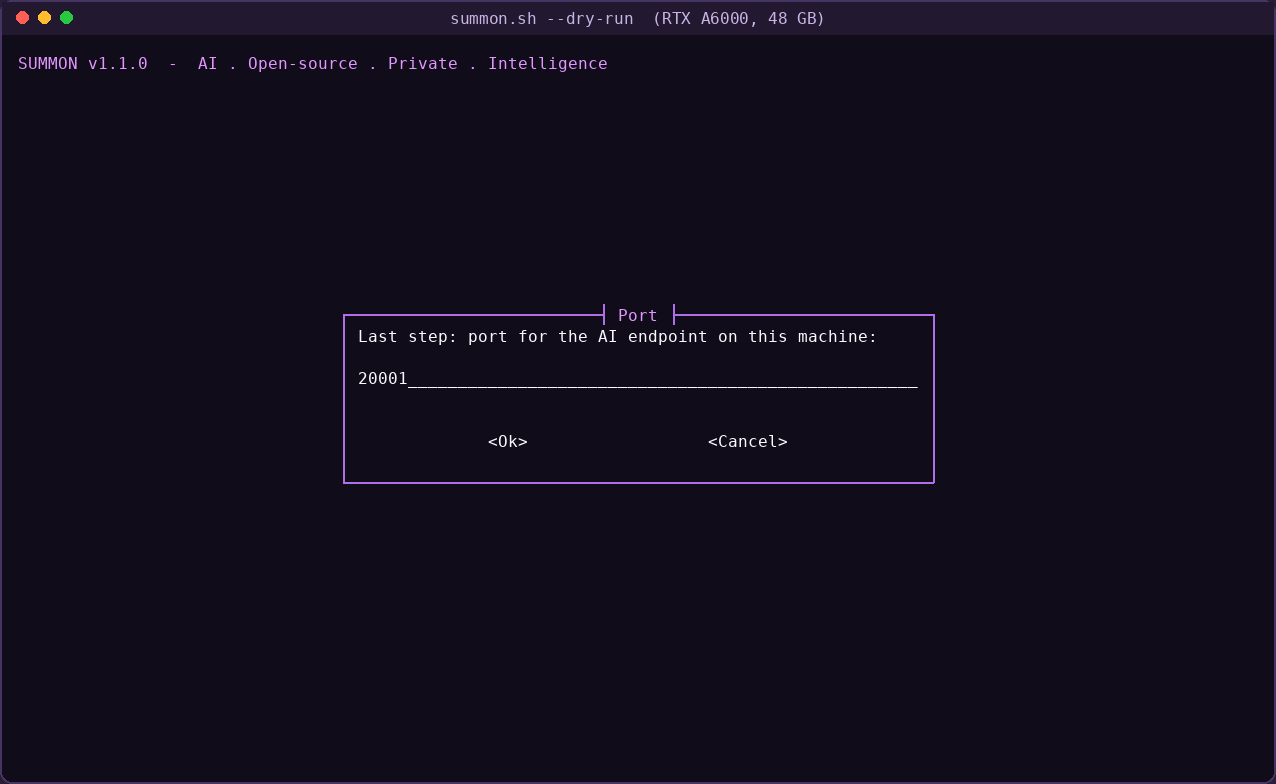
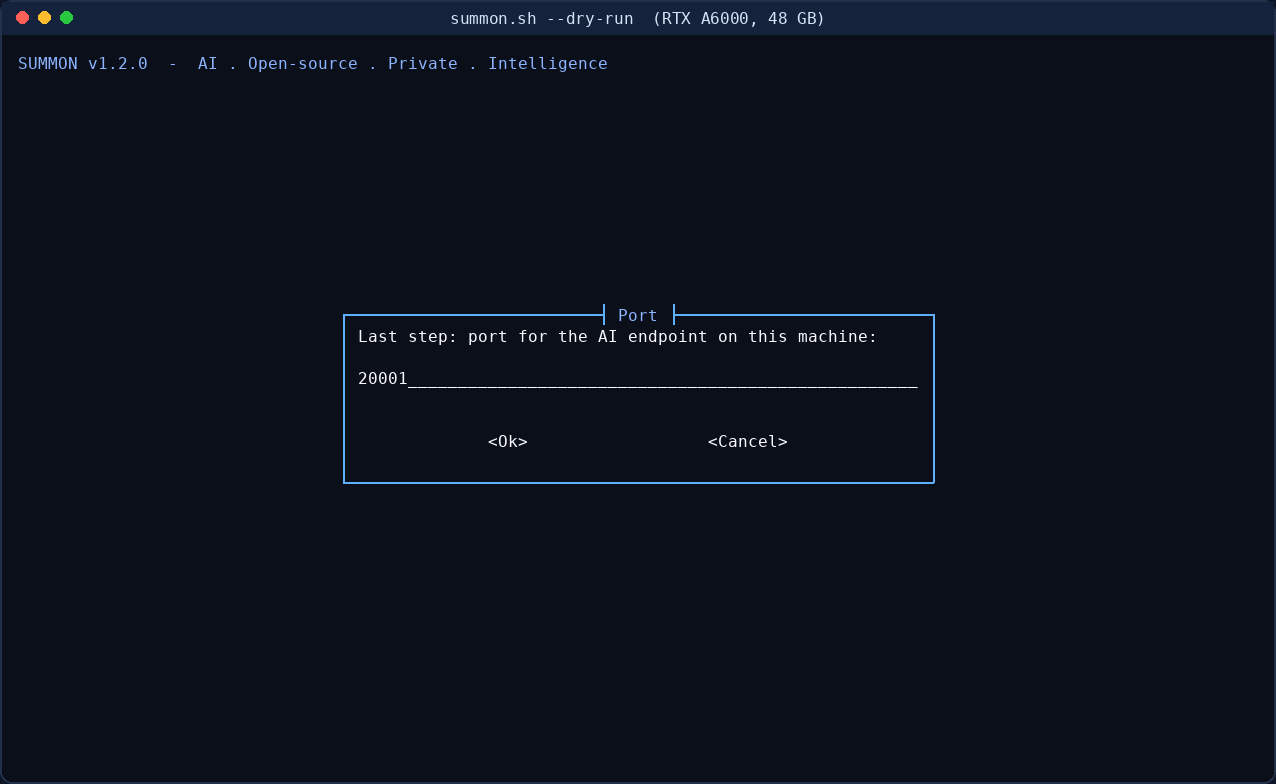
Screenshots + terminal UI: enterprise theme
- summon.sh: banner 256-colors magenta/gold -> steel-blue family (75/111/153); NEWT_COLORS whiptail theme magenta -> blue (user NEWT_COLORS still wins)
- tools/termshot.py: renderer chrome slate (bg #0a0f1a, titlebar #15223c, line #223049)
- tools/hero.py: og-image recolored to match
- Regenerated docs/img 00-11 + hero (real whiptail dry runs); 12/13 L40 shots are real-run captures, untouched

diff --git a/tools/hero.py b/tools/hero.py
@@ -17,9 +17,9 @@ PANELS = [   # one merged menu, two cards: the same models, re-sized to the VRAM
      'Same list, re-sized: knows\nwhat fits and what won\'t'),
 ]
 
-img = Image.new('RGB', (W, H), (14, 10, 22))
-glow = Image.new('RGB', (W, H), (14, 10, 22))
-ImageDraw.Draw(glow).ellipse([-200, -300, 900, 300], fill=(70, 32, 120))
+img = Image.new('RGB', (W, H), (10, 15, 26))
+glow = Image.new('RGB', (W, H), (10, 15, 26))
+ImageDraw.Draw(glow).ellipse([-200, -300, 900, 300], fill=(20, 45, 90))
 img = Image.blend(img, glow.filter(ImageFilter.GaussianBlur(140)), 0.9)
 d = ImageDraw.Draw(img)
 title, tag = ImageFont.truetype(B, 64), ImageFont.truetype(B, 20)
@@ -30,10 +30,10 @@ grad = Image.new('RGB', (W, H))
 gd = ImageDraw.Draw(grad)
 for y in range(H):
     k = min(1, max(0, (y - 30) / 70))
-    gd.line([0, y, W, y], fill=(int(232 - 60 * k), int(160 - 80 * k), 255))
+    gd.line([0, y, W, y], fill=(int(232 - 156 * k), int(237 - 96 * k), int(245 + 10 * k)))
 img.paste(grad, (0, 0), mask)
-d.text((330, 54), 'AI · OPEN-SOURCE · PRIVATE · INTELLIGENCE', font=tag, fill=(111, 214, 234))
-d.text((330, 82), 'One command turns your NVIDIA GPU into a private, OpenAI-compatible AI.', font=cap, fill=(214, 206, 228))
+d.text((330, 54), 'AI · OPEN-SOURCE · PRIVATE · INTELLIGENCE', font=tag, fill=(88, 166, 255))
+d.text((330, 82), 'One command turns your NVIDIA GPU into a private, OpenAI-compatible AI.', font=cap, fill=(232, 237, 245))
 
 PW, y = 820, 150
 for name, box, eng, models, note in PANELS:
@@ -44,19 +44,19 @@ for name, box, eng, models, note in PANELS:
     sh = Image.new('RGBA', (PW + 64, ph + 64), (0, 0, 0, 0))
     ImageDraw.Draw(sh).rounded_rectangle([20, 20, PW + 44, ph + 44], 16, fill=(0, 0, 0, 170))
     img.paste(sh.filter(ImageFilter.GaussianBlur(12)), (x - 32, y - 26), sh.filter(ImageFilter.GaussianBlur(12)))
-    fr = Image.new('RGB', (PW + 24, ph + 24), (17, 12, 26))
-    ImageDraw.Draw(fr).rounded_rectangle([0, 0, PW + 23, ph + 23], 14, outline=(90, 62, 130), width=2)
+    fr = Image.new('RGB', (PW + 24, ph + 24), (10, 15, 26))
+    ImageDraw.Draw(fr).rounded_rectangle([0, 0, PW + 23, ph + 23], 14, outline=(34, 48, 73), width=2)
     img.paste(fr, (x - 12, y - 12))
     img.paste(im, (x, y))
     cx, cy = x + PW + 50, y + 2
-    d.text((cx, cy), eng, font=h1, fill=(111, 214, 234)); cy += 44
+    d.text((cx, cy), eng, font=h1, fill=(88, 166, 255)); cy += 44
     for m in models:
-        d.text((cx, cy), m, font=h1, fill=(226, 155, 255)); cy += 38
-    d.multiline_text((cx, cy + 8), note, font=cap, fill=(169, 159, 189), spacing=6)
+        d.text((cx, cy), m, font=h1, fill=(138, 180, 255)); cy += 38
+    d.multiline_text((cx, cy + 8), note, font=cap, fill=(148, 163, 184), spacing=6)
     y += max(ph, cy + 70 - y) + 34
-d.rounded_rectangle([40, H - 74, 620, H - 28], 12, fill=(30, 20, 46), outline=(110, 70, 160), width=2)
-d.text((330, H - 51), 'codyvolckmar.github.io/summon', font=url, fill=(123, 227, 166), anchor='mm')
-d.text((W - 40, H - 51), 'Linux · Windows (WSL 2) · MIT', font=cap, fill=(169, 159, 189), anchor='rm')
+d.rounded_rectangle([40, H - 74, 620, H - 28], 12, fill=(17, 24, 39), outline=(76, 141, 255), width=2)
+d.text((330, H - 51), 'codyvolckmar.github.io/summon', font=url, fill=(94, 203, 143), anchor='mm')
+d.text((W - 40, H - 51), 'Linux · Windows (WSL 2) · MIT', font=cap, fill=(148, 163, 184), anchor='rm')
 out = os.path.join(IMG, 'summon-hero.png')
 img.save(out)
 print('saved', out, '- panels end at y =', y - 40)

diff --git a/tools/termshot.py b/tools/termshot.py
@@ -11,9 +11,9 @@ from PIL import Image, ImageDraw, ImageFont
 ROWS, COLS = 34, 124
 FONT = "/usr/share/fonts/truetype/dejavu/DejaVuSansMono.ttf"
 FONT_BOLD = "/usr/share/fonts/truetype/dejavu/DejaVuSansMono-Bold.ttf"
-BG = (17, 12, 26)
-PALETTE = [(17, 12, 26), (224, 88, 104), (96, 200, 140), (230, 192, 110), (100, 148, 240), (178, 110, 232), (86, 196, 214), (214, 214, 222),
-           (96, 88, 112), (255, 120, 136), (130, 230, 170), (255, 220, 140), (140, 180, 255), (226, 150, 255), (130, 226, 240), (250, 250, 255)]
+BG = (10, 15, 26)
+PALETTE = [(10, 15, 26), (224, 88, 104), (96, 200, 140), (230, 192, 110), (95, 175, 255), (135, 175, 255), (86, 196, 214), (214, 214, 222),
+           (96, 88, 112), (255, 120, 136), (130, 230, 170), (255, 220, 140), (140, 180, 255), (175, 219, 255), (130, 226, 240), (250, 250, 255)]
 ACS = {'j': '┘', 'k': '┐', 'l': '┌', 'm': '└', 'n': '┼', 'q': '─', 't': '├', 'u': '┤', 'v': '┴', 'w': '┬', 'x': '│',
        'a': '▒', '`': '◆', '~': '·', '0': '█', 'h': '▒', 'f': '°', 'g': '±', '+': '→', ',': '←', '-': '↑', '.': '↓', 'o': '⎺', 's': '⎽'}
 
@@ -210,13 +210,13 @@ class Screen:
         cw = round(font.getlength('M')); ch = 21
         pad, bar = 18, 34
         W, H = COLS * cw + pad * 2, ROWS * ch + pad * 2 + bar
-        img = Image.new('RGB', (W, H), (40, 30, 56))
+        img = Image.new('RGB', (W, H), (13, 21, 38))
         d = ImageDraw.Draw(img)
-        d.rounded_rectangle([0, 0, W - 1, H - 1], radius=12, fill=BG, outline=(70, 52, 98), width=2)
-        d.rectangle([2, 2, W - 3, bar], fill=(34, 25, 48))
+        d.rounded_rectangle([0, 0, W - 1, H - 1], radius=12, fill=BG, outline=(34, 48, 73), width=2)
+        d.rectangle([2, 2, W - 3, bar], fill=(21, 34, 60))
         for k, col in enumerate([(255, 95, 87), (254, 188, 46), (40, 200, 64)]):
             d.ellipse([16 + k * 22, 11, 28 + k * 22, 23], fill=col)
-        d.text((W // 2, bar // 2 + 1), title, font=font, fill=(200, 180, 230), anchor='mm')
+        d.text((W // 2, bar // 2 + 1), title, font=font, fill=(214, 227, 245), anchor='mm')
         y0 = bar + pad
         for r in range(ROWS):
             for c in range(COLS):

diff --git a/CHANGELOG.md b/CHANGELOG.md
@@ -2,7 +2,7 @@
 
 ## v1.2.0 (2026-11-20)
 
-- Docs site restyled: enterprise slate/blue theme (replaces the purple).
+- Docs site, terminal UI (banner + whiptail theme) and all screenshots restyled: enterprise slate/blue theme (replaces purple).
 - **Logic-precision fixes (full-script audit).**
   - `--lock` works with no server running (Ollama's screen session dies on a reboot): `./summon.sh --lock PORT` defaults to host mode; a llama.cpp container on that port still locks via DOCKER-USER. `--dry-run --lock` now previews instead of locking.
   - `ENGINE=ollama` on a card where no Ollama model fits now errors out instead of silently running a llama.cpp model; Ollama also never starts with zero models.
